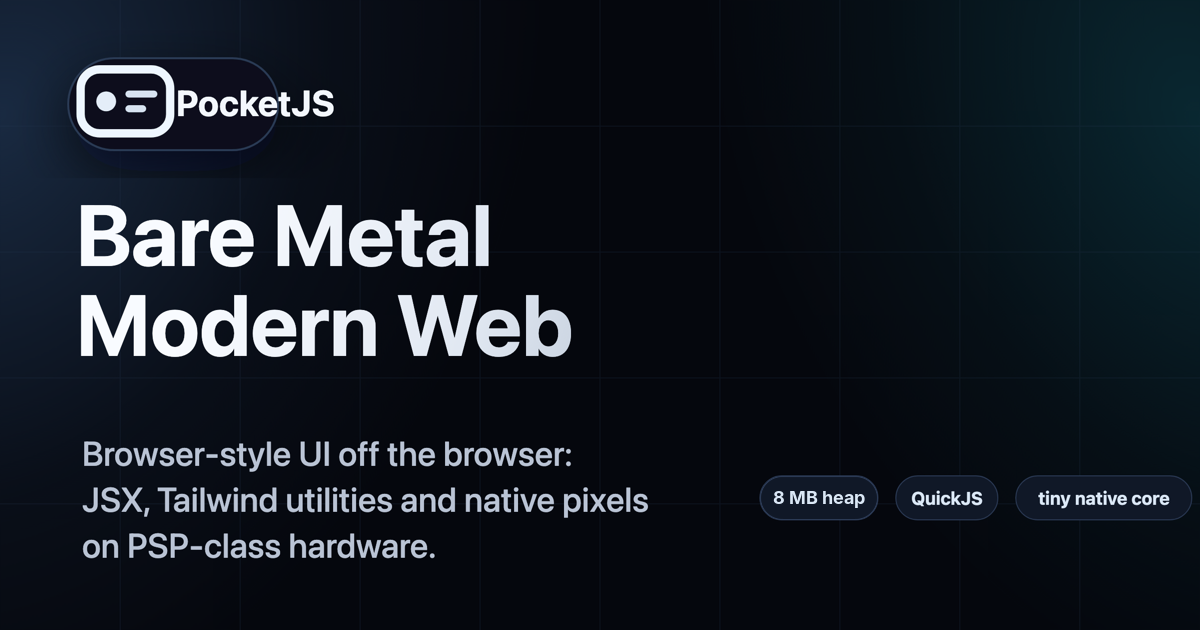
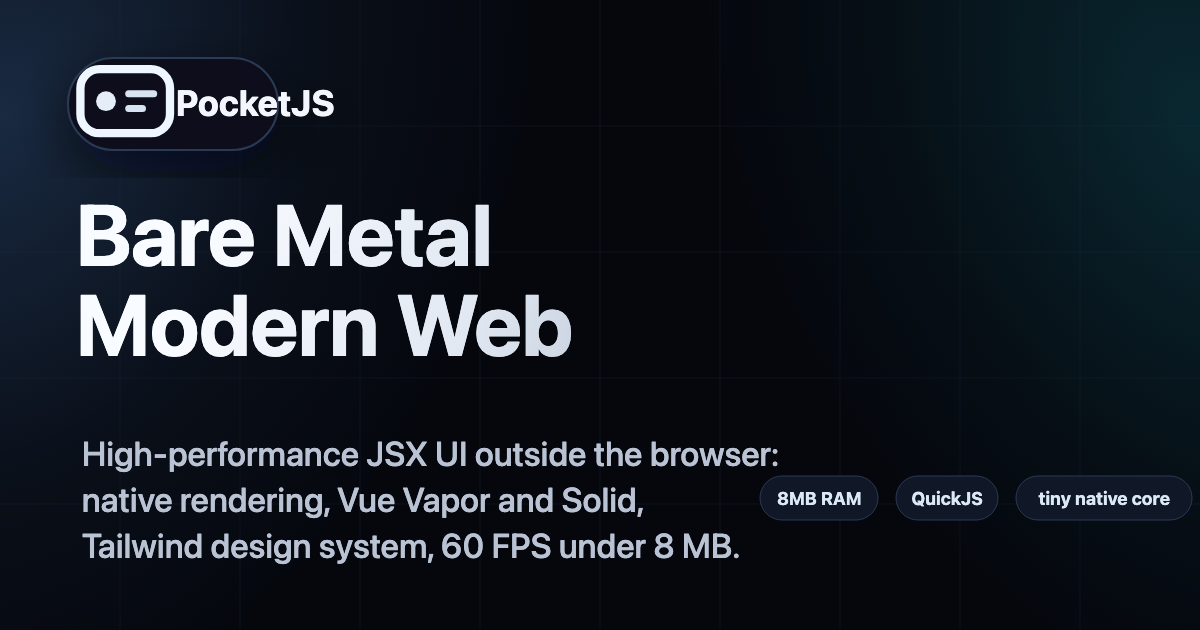
docs: polish launch copy (#41)

diff --git a/site/home.html b/site/home.html
@@ -39,8 +39,9 @@
         </a>
         <h1 class="lp-h1">Bare Metal<span class="lp-grad">Modern Web</span></h1>
         <p class="lp-sub">
-          PocketJS makes browser-style UI practical off the browser:
-          familiar JSX, Tailwind utilities and native rendering on PSP-class hardware.
+          High-performance JSX UI outside the browser, with native rendering,
+          standard Vue Vapor and Solid support, a Tailwind design system, and
+          60 FPS animation under an 8 MB memory budget.
         </p>
         <div class="lp-hero__cta">
           <a class="lp-btn lp-btn--primary" href="/docs/getting-started/">Get started</a>
@@ -368,7 +369,7 @@
             </svg>
             <span>PocketJS</span>
           </a>
-          <p>Solid or Vue Vapor UI under 8MB RAM, rendered through a tiny native core.</p>
+          <p>Vue Vapor and Solid UI under 8 MB RAM, rendered through a tiny native core.</p>
         </div>
         <div>
           <h4>Docs</h4>

diff --git a/site/templates.ts b/site/templates.ts
@@ -7,7 +7,7 @@ const GH = "https://github.com/pocket-stack/pocketjs";
 export const SITE_URL = "https://pocketjs.dev";
 export const SITE_TITLE = "PocketJS — Bare Metal Modern Web";
 export const SITE_DESC =
-  "PocketJS makes browser-style UI practical off the browser: familiar JSX, Tailwind utilities and native rendering on PSP-class hardware.";
+  "High-performance JSX UI outside the browser, with native rendering, standard Vue Vapor and Solid support, a Tailwind design system, and 60 FPS animation under an 8 MB memory budget.";
 export const OG_IMAGE_URL = `${SITE_URL}/og-image.png`;
 
 export interface PageOpts {
@@ -59,7 +59,7 @@ const footer = `<footer class="mt-24 border-t border-line/70 bg-ink-2/60">
     <div class="grid gap-10 sm:grid-cols-2 lg:grid-cols-4">
       <div>
         <div class="flex items-center gap-2 font-semibold text-slate-100">${LOGO}<span>PocketJS</span></div>
-        <p class="mt-3 max-w-xs text-sm text-slate-400">Solid or Vue Vapor UI under 8MB RAM, rendered through a tiny native core.</p>
+        <p class="mt-3 max-w-xs text-sm text-slate-400">Vue Vapor and Solid UI under 8 MB RAM, rendered through a tiny native core.</p>
       </div>
       <div class="text-sm">
         <h4 class="mb-3 font-semibold text-slate-200">Docs</h4>

diff --git a/README.md b/README.md
@@ -1,18 +1,18 @@
-<p>
-  <img src="./site/assets/favicon.svg" width="56" height="56" alt="PocketJS">
-</p>
+# <img src="./site/assets/favicon.svg" width="40" height="40" alt=""> PocketJS
 
-# PocketJS
-
-PocketJS makes browser-style UI practical off the browser: familiar JSX,
-Tailwind utilities and native rendering on PSP-class hardware. Write Solid or
-Vue Vapor components, run them on QuickJS, and let PocketJS move layout,
-styling, text and animation into a tiny `no_std` Rust core.
+High-performance JSX UI outside the browser, with native rendering, standard
+Vue Vapor and Solid support, a Tailwind design system, and 60 FPS animation
+under an 8 MB memory budget. Write Solid or Vue Vapor components, run them on
+QuickJS, and let PocketJS move layout, styling, text and animation into a tiny
+`no_std` Rust core.
 
 It runs on real PSP hardware, PPSSPP, the browser (WASM) and headless Bun.
 Full design + contracts: [DESIGN.md](./DESIGN.md).
 
 ## Screenshots
+
+These PocketJS UIs run smoothly at 60 FPS on a Sony PSP within an 8 MB memory
+budget, including animated transitions and input feedback.
 
 | Gallery | Settings |
 | --- | --- |